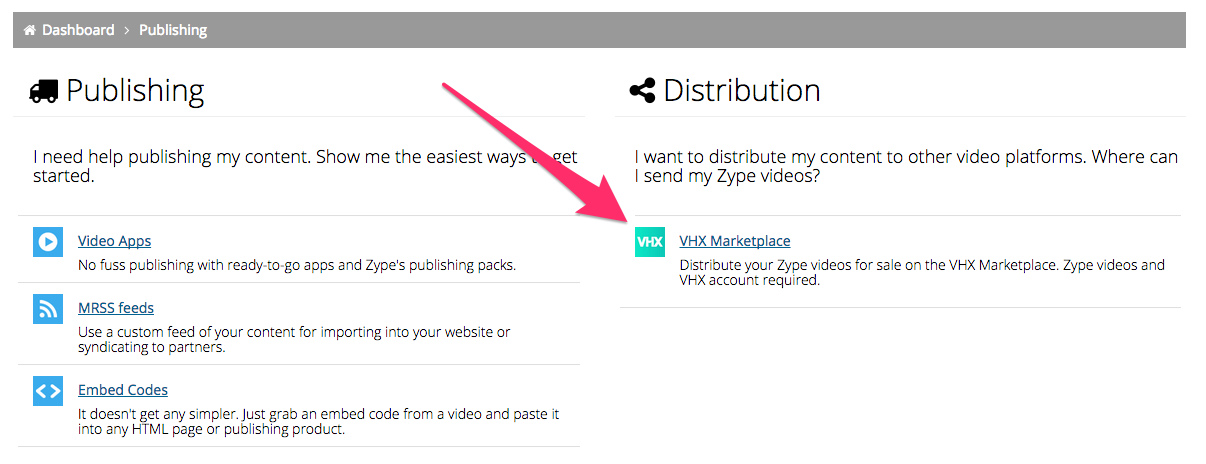
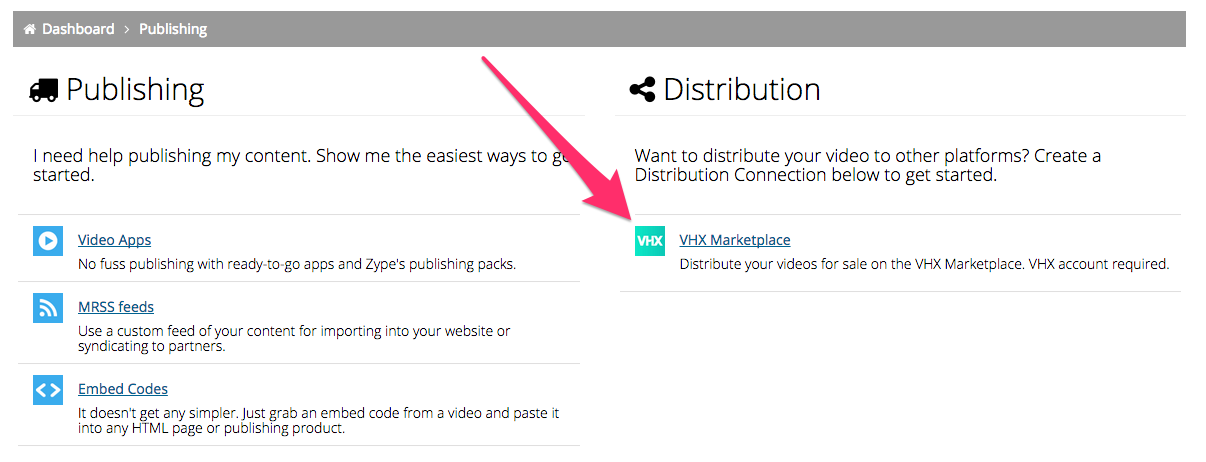
New screenshots and updated copy

diff --git a/_site/platform_docs/distribution/index.html b/_site/platform_docs/distribution/index.html
@@ -92,13 +92,14 @@
 <p>Interested in selling individual or bundled videos on the VHX Marketplace? You’ve come to the right place.
 If you’ve got a VHX account and some Zype videos, we’ll make it easy to connect the two. Here’s how:</p>
 
-<h3 id="go-to-the-publishing-homepagehttpsadminzypecompublishing">Go to the <a href="https://admin.zype.com/publishing">Publishing homepage</a></h3>
+<h3 id="go-to-the-publishing-homepagehttpsadminzypecompublishingtargetblank">Go to the <a href="https://admin.zype.com/publishing" target="_blank">Publishing homepage</a></h3>
 
 <p><img src="http://dev.zype.com/assets/distribution_vhx/Zype___Publishing.png" alt="Publishing Homepage" /></p>
 
-<h3 id="connect-your-vhx-accounthttpswwwvhxtv">Connect your <a href="https://www.vhx.tv">VHX Account</a></h3>
+<h3 id="connect-your-vhx-accounthttpswwwvhxtvtargetblank">Connect your <a href="https://www.vhx.tv" target="_blank">VHX Account</a></h3>
 
-<p><img src="http://dev.zype.com/assets/distribution_vhx/Zype___VHX_Marketplace_1.png" alt="Connect VHX Account" /></p>
+<p><img src="http://dev.zype.com/assets/distribution_vhx/Zype___VHX_Marketplace_1.png" alt="Connect VHX Account" />
+<img src="http://dev.zype.com/assets/distribution_vhx/vhx-login.png" alt="VHX Login" /></p>
 
 <h3 id="choose-your-vhx-site">Choose your VHX Site</h3>
 <p>If everything went smoothly, you’ll see a list of the sites on your VHX account. Give this distribution endpoint a name you’ll remember and select which site to distribute to.</p>
@@ -110,9 +111,13 @@ If you’ve got a VHX account and some Zype videos, we’ll make it easy to conn
 
 <p><img src="http://dev.zype.com/assets/distribution_vhx/Zype___Video_Library_1.png" alt="Choose Videos" /></p>
 
-<p>Use the distribute button to select which endpoint you want to use and you’re good to go.</p>
+<p>Use the distribute button to select which endpoint you want to use.</p>
 
 <p><img src="http://dev.zype.com/assets/distribution_vhx/Zype___Video_Library.png" alt="Distribute" /></p>
+
+<p>You’re done! You’ll get a brief message about what happens next if everything went smoothly.</p>
+
+<p><img src="http://dev.zype.com/assets/distribution_vhx/Confirmation.png" alt="Distribute" /></p>
 
   </section>
 

diff --git a/platform_docs/distribution.md b/platform_docs/distribution.md
@@ -19,13 +19,14 @@ Zype makes it easy to distribute your videos for sale through other video platfo
 Interested in selling individual or bundled videos on the VHX Marketplace? You've come to the right place.
 If you've got a VHX account and some Zype videos, we'll make it easy to connect the two. Here's how:
 
-### Go to the [Publishing homepage](https://admin.zype.com/publishing)
+### Go to the [Publishing homepage](https://admin.zype.com/publishing){:target="_blank"}
 
 ![Publishing Homepage]({{site.url}}assets/distribution_vhx/Zype___Publishing.png)
 
-### Connect your [VHX Account](https://www.vhx.tv)
+### Connect your [VHX Account](https://www.vhx.tv){:target="_blank"}
 
 ![Connect VHX Account]({{site.url}}assets/distribution_vhx/Zype___VHX_Marketplace_1.png)
+![VHX Login]({{site.url}}assets/distribution_vhx/vhx-login.png)
 
 ### Choose your VHX Site
 If everything went smoothly, you'll see a list of the sites on your VHX account. Give this distribution endpoint a name you'll remember and select which site to distribute to.
@@ -37,6 +38,10 @@ You're now at the video library screen where you can choose which Zype videos to
 
 ![Choose Videos]({{site.url}}assets/distribution_vhx/Zype___Video_Library_1.png)
 
-Use the distribute button to select which endpoint you want to use and you're good to go.
+Use the distribute button to select which endpoint you want to use.
 
 ![Distribute]({{site.url}}assets/distribution_vhx/Zype___Video_Library.png)
+
+You're done! You'll get a brief message about what happens next if everything went smoothly.
+
+![Distribute]({{site.url}}assets/distribution_vhx/Confirmation.png)
